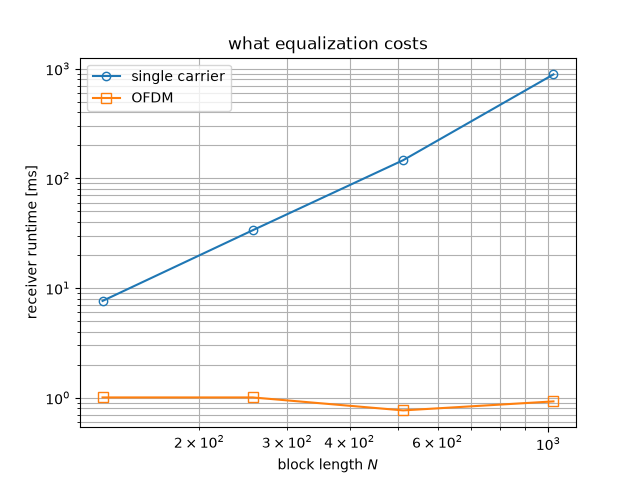
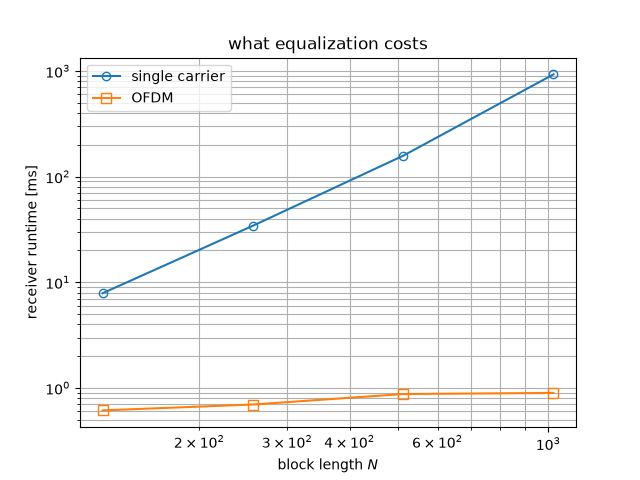
Re-paste the OFDM run times, and say what they are worth
The migration changed nothing numerical -- every example prints what its
page quotes -- but the OFDM page carried run times measured under load,
and they swing by a factor of two between runs on this machine. They are
re-measured, and the page now says which number to trust: the ratio, not
the milliseconds.

diff --git a/docs/tutorials/ofdm.rst b/docs/tutorials/ofdm.rst
@@ -143,7 +143,7 @@ Results
 
 .. code::
 
-   single carrier: SER 0.0117, 4014 ms
+   single carrier: SER 0.0117, 1829 ms
 
 .. image:: img/one_shot_ofdm_fig2.png
    :width: 100%
@@ -199,7 +199,7 @@ Results
 
 .. code::
 
-   OFDM          : SER 0.0406, 1.15 ms (3483 times faster)
+   OFDM          : SER 0.0406, 1.20 ms (1525 times faster)
 
 .. image:: img/one_shot_ofdm_fig3.png
    :width: 100%
@@ -207,7 +207,7 @@ Results
    :alt: OFDM constellation after one-tap equalization
 
 The two numbers point in opposite directions: three and a half times as many
-errors, in three thousandths of the time.
+errors, in a thousandth of the time.
 
 
 Monte Carlo Evaluation
@@ -268,10 +268,10 @@ block length grows:
 .. code::
 
         N   single carrier      OFDM     ratio
-      128           7.7 ms    0.65 ms       12
-      256          41.7 ms    0.85 ms       49
-      512         192.8 ms    0.84 ms      229
-     1024        1531.7 ms    2.07 ms      740
+      128           8.5 ms    1.01 ms        8
+      256          28.4 ms    0.82 ms       35
+      512         139.1 ms    0.84 ms      166
+     1024         901.0 ms    0.88 ms     1018
 
 .. image:: img/one_shot_ofdm_fig5.png
    :width: 100%
@@ -280,8 +280,10 @@ block length grows:
 
 The single-carrier receiver grows with the block length; the OFDM one does
 not move, since its work per symbol is one FFT and one division whatever the
-block size. At :math:`N = 1024` the ratio is already **740**, and it widens
-with every doubling. A 20 MHz LTE carrier equalizes
+block size. At :math:`N = 1024` the ratio is already three orders of
+magnitude, and it widens with every doubling. (Run times are what they
+are: these were measured on one machine, and the ratio is the robust
+number, not the milliseconds.) A 20 MHz LTE carrier equalizes
 1200 subcarriers every 70 µs; no version of that pseudo-inverts a matrix.
 
 

diff --git a/CHANGELOG.md b/CHANGELOG.md
@@ -151,6 +151,17 @@ as the low-level builder the class is built on.
 `SpaceTimeCode` was already the object on the coding side (registry,
 verified orthogonality, rate); it gains the matching `info()`.
 
+Every script under `examples/` and `validation/` is migrated. What that
+removed, in twenty-one places, is this line:
+
+```python
+snr_per_bit = 10 ** (snr_dB / 10) / np.log2(M)      # before
+constellation.metrics(snr_dB, per="symbol")          # after
+```
+
+`AWGN(snr_dB=)` is a symbol SNR and the closed forms are quoted against
+`Eb/N0`; the factor `k` now lives where `k` is known.
+
 ### Changed — the closed-form performance front-ends return a dictionary
 
 `compute_metric_awgn_theo` and `compute_metric_rayleigh_theo` took a

diff --git a/docs/getting_started/who_is_comnumpy_for.rst b/docs/getting_started/who_is_comnumpy_for.rst
@@ -49,7 +49,8 @@ pays for someone who actually crosses domains. Three things are.
 PyTorch's ``nn.Module`` / ``nn.Sequential``, and the consequences are
 the ones that matter in daily research work. A chain can be::
 
-    chain = Sequential([SymbolGenerator(16, name="tx"), SymbolMapper(alphabet),
+    qam = Constellation("QAM", 16)
+    chain = Sequential([SymbolGenerator(qam.order, name="tx"), SymbolMapper(qam),
                         AWGN(snr_dB=15, name="noise")], taps=["tx"])
 
     chain.seed(42)                            # every stochastic block, reproducibly
